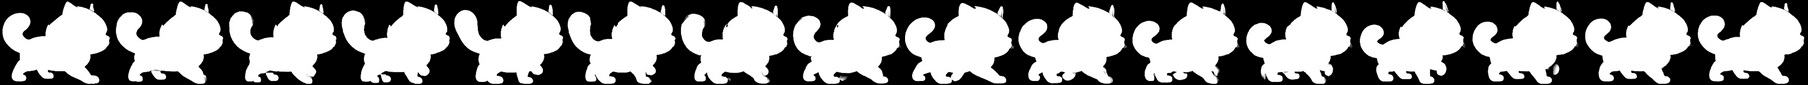
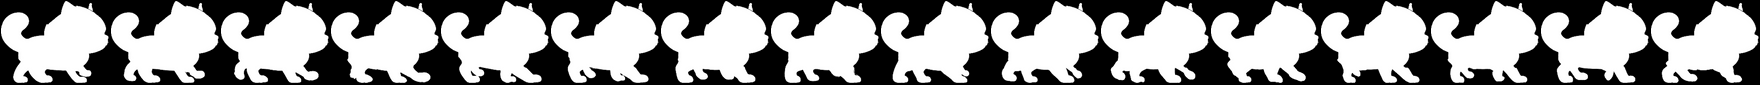
Public 0.5.15-P: GitHub star and affiliate links on the support page, new walking cat
- Support page (user: buttons that do not feel pushy, details in a box):
  GitHub star row in every language (free support first); on the Korean
  screen only, a "when you shop" card with Coupang and MyRealTrip
  [Details]. Each opens a box with the required economic-interest
  disclosure as a highlighted line (Coupang's exact wording, MyRealTrip's
  definite "commission is paid" wording), where it goes and that 1Key
  collects nothing; the link opens only from [Open in browser]. Links are
  fixed allowlist constants. Korean intro no longer says "no ads".
- Dialog: OK/Cancel boxes use the given OK text; warning/tip lines indent
  by the mark's width (the mark's cell covered the first letter).
- Walk: new 16-frame cycle - 8 key poses with all four legs stepping in
  order and planted paws on the ground line, 5 RIFE in-betweens and 3
  drawn in-betweens where a leg passes in front of another. Walk speed
  matched to the new stride (strip px per frame 3.6 -> 2.95) so the
  planted paws do not slide.
- Tests: support 13/13 (SP09-SP13 new), dialog 16/16, help 22/22,
  catwalk 8/8, catseq 8/8.

diff --git a/src/OneKey/Strings.g.cs b/src/OneKey/Strings.g.cs
@@ -1,12 +1,12 @@
 // <auto-generated/>
 // Generated by tools/i18n/gen-strings.ps1 from src/OneKey/i18n/strings.tsv. Do not edit; edit the TSV.
-// 605 texts; 0 missing translations fall back to en.
+// 616 texts; 21 missing translations fall back to en.
 #nullable enable
 namespace OneKey;
 
 internal static partial class T
 {
-    public const int Count = 605;
+    public const int Count = 616;
     internal static readonly string[] Ko =
     {
         "확인",
@@ -607,13 +607,24 @@ internal static partial class T
         "이 백업에는 프로그램·폴더 목록이 없습니다(만들 때 목록을 읽지 못함).\n지금 목록을 그대로 둘까요?\n\n[예] 지금 목록 그대로    [아니요] 목록을 비움    [취소] 복원 그만두기",
         "후원하기",
         "1Key가 도움이 됐다면",
-        "1Key는 무료이고, 광고도 추적도 없어요. 커피 한 잔으로 응원해 주시면 계속 다듬는 힘이 돼요. 후원하지 않아도 모든 기능은 그대로예요.",
+        "1Key는 무료이고, 사용자를 추적하지 않아요. 커피 한 잔으로 응원해 주시면 계속 다듬는 힘이 돼요. 후원하지 않아도 모든 기능은 그대로예요.",
         "휴대폰으로 후원",
         "휴대폰 카메라로 찍으면 송금 화면이 바로 열려요. 금액만 넣으면 끝.",
         "카카오페이",
         "카카오페이로 열려요",
         "브라우저에서 열기",
         "카카오페이 송금 페이지",
+        "GitHub에서 별 주기",
+        "돈 들지 않는 응원 — GitHub 계정으로 ★를 눌러 주세요",
+        "필요한 걸 사실 때",
+        "아래 링크로 사시면 가격은 같고, 개발자에게 수수료가 지급돼요.",
+        "쿠팡",
+        "평소 쇼핑",
+        "마이리얼트립",
+        "항공·숙소·투어 예약",
+        "자세히",
+        "## 쿠팡에서 쇼핑하기\n평소처럼 쇼핑하시면 돼요. 가격은 같아요.\n> 이 포스팅은 쿠팡 파트너스 활동의 일환으로, 이에 따른 일정액의 수수료를 제공받습니다.\n• 가는 곳: link.coupang.com → 쿠팡 (기본 브라우저)\n• 1Key는 아무 정보도 모으지 않아요. 제휴 기록은 쿠팡이 브라우저에서 남겨요.",
+        "## 마이리얼트립에서 예약하기\n평소처럼 예약하시면 돼요. 가격은 같아요.\n> 마이리얼트립과 함께하는 마케팅 파트너십을 통해 여행자가 구매할 때마다 일정 비율의 수수료를 지급받습니다.\n• 가는 곳: myrealt.rip(마이리얼트립 단축 주소) → 마이리얼트립 (기본 브라우저)\n• 1Key는 아무 정보도 모으지 않아요. 제휴 기록은 마이리얼트립이 브라우저에서 남겨요.",
     };
     internal static readonly string[] En =
     {
@@ -1222,6 +1233,17 @@ internal static partial class T
         "Opens in KakaoPay",
         "Open in browser",
         "KakaoPay payment page",
+        "Star 1Key on GitHub",
+        "Free support — click ★ with your GitHub account",
+        "When you shop",
+        "Buy through the links below: the price is the same and the developer is paid a commission.",
+        "Coupang",
+        "Everyday shopping",
+        "MyRealTrip",
+        "Flights, stays and tours",
+        "Details",
+        "## Shop on Coupang\nShop as usual; the price is the same.\n> This is part of the Coupang Partners program, and the developer receives a fixed commission for it.\n• Goes to: link.coupang.com → Coupang (default browser)\n• 1Key collects nothing. Coupang records the referral in your browser.",
+        "## Book on MyRealTrip\nBook as usual; the price is the same.\n> Through a marketing partnership with MyRealTrip, the developer is paid a set percentage commission on every purchase.\n• Goes to: myrealt.rip (MyRealTrip short link) → MyRealTrip (default browser)\n• 1Key collects nothing. MyRealTrip records the referral in your browser.",
     };
     internal static readonly string[] ZhHans =
     {
@@ -1830,6 +1852,17 @@ internal static partial class T
         "在 KakaoPay 中打开",
         "在浏览器中打开",
         "KakaoPay 转账页面",
+        "在 GitHub 上点星",
+        "免费的支持 — 用 GitHub 账号点 ★",
+        "购物时",
+        "Buy through the links below: the price is the same and the developer is paid a commission.",
+        "Coupang",
+        "Everyday shopping",
+        "MyRealTrip",
+        "Flights, stays and tours",
+        "详情",
+        "## Shop on Coupang\nShop as usual; the price is the same.\n> This is part of the Coupang Partners program, and the developer receives a fixed commission for it.\n• Goes to: link.coupang.com → Coupang (default browser)\n• 1Key collects nothing. Coupang records the referral in your browser.",
+        "## Book on MyRealTrip\nBook as usual; the price is the same.\n> Through a marketing partnership with MyRealTrip, the developer is paid a set percentage commission on every purchase.\n• Goes to: myrealt.rip (MyRealTrip short link) → MyRealTrip (default browser)\n• 1Key collects nothing. MyRealTrip records the referral in your browser.",
     };
     internal static readonly string[] Ja =
     {
@@ -2438,6 +2471,17 @@ internal static partial class T
         "カカオペイで開きます",
         "ブラウザで開く",
         "カカオペイ送金ページ",
+        "GitHubでスターを付ける",
+        "無料の応援 — GitHubアカウントで★を押してください",
+        "お買い物のときに",
+        "Buy through the links below: the price is the same and the developer is paid a commission.",
+        "Coupang",
+        "Everyday shopping",
+        "MyRealTrip",
+        "Flights, stays and tours",
+        "詳しく",
+        "## Shop on Coupang\nShop as usual; the price is the same.\n> This is part of the Coupang Partners program, and the developer receives a fixed commission for it.\n• Goes to: link.coupang.com → Coupang (default browser)\n• 1Key collects nothing. Coupang records the referral in your browser.",
+        "## Book on MyRealTrip\nBook as usual; the price is the same.\n> Through a marketing partnership with MyRealTrip, the developer is paid a set percentage commission on every purchase.\n• Goes to: myrealt.rip (MyRealTrip short link) → MyRealTrip (default browser)\n• 1Key collects nothing. MyRealTrip records the referral in your browser.",
     };
     internal static readonly string[] Vi =
     {
@@ -3046,6 +3090,17 @@ internal static partial class T
         "Mở bằng KakaoPay",
         "Mở trong trình duyệt",
         "Trang chuyển tiền KakaoPay",
+        "Gắn sao cho 1Key trên GitHub",
+        "Ủng hộ miễn phí — bấm ★ bằng tài khoản GitHub",
+        "Khi bạn mua sắm",
+        "Buy through the links below: the price is the same and the developer is paid a commission.",
+        "Coupang",
+        "Everyday shopping",
+        "MyRealTrip",
+        "Flights, stays and tours",
+        "Chi tiết",
+        "## Shop on Coupang\nShop as usual; the price is the same.\n> This is part of the Coupang Partners program, and the developer receives a fixed commission for it.\n• Goes to: link.coupang.com → Coupang (default browser)\n• 1Key collects nothing. Coupang records the referral in your browser.",
+        "## Book on MyRealTrip\nBook as usual; the price is the same.\n> Through a marketing partnership with MyRealTrip, the developer is paid a set percentage commission on every purchase.\n• Goes to: myrealt.rip (MyRealTrip short link) → MyRealTrip (default browser)\n• 1Key collects nothing. MyRealTrip records the referral in your browser.",
     };
 
     /// <summary>common.ok</summary>
@@ -4258,4 +4313,26 @@ internal static partial class T
     public static string SupportBrowser => L.Get(603);
     /// <summary>support.browserNote</summary>
     public static string SupportBrowserNote => L.Get(604);
+    /// <summary>support.github</summary>
+    public static string SupportGithub => L.Get(605);
+    /// <summary>support.githubNote</summary>
+    public static string SupportGithubNote => L.Get(606);
+    /// <summary>support.shop</summary>
+    public static string SupportShop => L.Get(607);
+    /// <summary>support.shopNote</summary>
+    public static string SupportShopNote => L.Get(608);
+    /// <summary>support.coupang</summary>
+    public static string SupportCoupang => L.Get(609);
+    /// <summary>support.coupangNote</summary>
+    public static string SupportCoupangNote => L.Get(610);
+    /// <summary>support.mrt</summary>
+    public static string SupportMrt => L.Get(611);
+    /// <summary>support.mrtNote</summary>
+    public static string SupportMrtNote => L.Get(612);
+    /// <summary>support.btnMore</summary>
+    public static string SupportBtnMore => L.Get(613);
+    /// <summary>support.coupangBody</summary>
+    public static string SupportCoupangBody => L.Get(614);
+    /// <summary>support.mrtBody</summary>
+    public static string SupportMrtBody => L.Get(615);
 }

diff --git a/src/OneKey/AppSupport.cs b/src/OneKey/AppSupport.cs
@@ -5,14 +5,18 @@ namespace OneKey;
 /// <summary>
 /// 후원 화면(2026-10-09 사용자: 사용성을 해치지 않고 거부감 없는 자리에). 설정 맨 아래 [후원하기 · 열기]에서만 들어온다 — 목록 머리줄·트레이 메뉴에
 /// 단추를 두지 않고, 저절로 뜨거나 다시 알리지 않는다. 화면을 그리는 데 네트워크를 쓰지 않는다(QR 은 빌드에 든 그림).
-/// 위에서부터: ① 고양이 + "1Key가 도움이 됐다면" + 한 문단 ② 휴대폰으로 후원 — 카카오페이 QR(흰 판, 어두운 테마에서도 흰 바탕),
-/// 브라우저에서 열기 [열기] ③ 아래 [닫기]. 열 수 있는 주소는 SupportLinks.Allowed 뿐(이어 붙인 주소 없음), 여는 길은 바로 실행의 웹 주소와 같다
+/// 위에서부터: ① 고양이 + "1Key가 도움이 됐다면" + 한 문단 ② GitHub 에서 별 주기 [열기](모든 언어 — 돈이 들지 않는 응원을 먼저)
+/// ③ 휴대폰으로 후원 — 카카오페이 QR(흰 판, 어두운 테마에서도 흰 바탕), 브라우저에서 열기 [열기]
+/// ④ 필요한 걸 사실 때(한국어 화면만 — 한국 서비스) 쿠팡·마이리얼트립 [자세히] → 확인 상자(경제적 이해관계 문구를 강조 줄로, 가는 곳,
+/// 1Key 는 아무것도 모으지 않음) [브라우저에서 열기]/[취소] ⑤ 아래 [닫기]. 제휴 링크는 상자를 거치지 않고는 열리지 않는다(문구를 먼저 보게).
+/// 열 수 있는 주소는 SupportLinks.Allowed 뿐(이어 붙인 주소 없음), 여는 길은 바로 실행의 웹 주소와 같다
 /// (기본 브라우저, Launcher — 관리자 권한 1Key 에서도 보통 권한으로). 시험 모드는 실제로 열지 않고 config 폴더 support-open.txt 에 적는다.
 /// Esc·‹·[닫기] = 설정으로.
 /// </summary>
 internal sealed unsafe partial class App
 {
     private const int IdSupBack = 2501, IdSupOpen = 2502, IdSupClose = 2503, IdRowSupport = 2504;
+    private const int IdSupCoupang = 2505, IdSupMyRealTrip = 2506, IdSupGitHub = 2507;
     private const int SupQrTile = 184;   // QR 흰 판(논리 px). 모듈은 늘 정수 픽셀(DPI 마다 다시 잼)
 
     private static bool[]? _qrMods;
@@ -41,7 +45,24 @@ internal sealed unsafe partial class App
         _page.Pic = (lx, top + (y - top - PicH) / 2, PicH);
         _page.Cards.Add((Mx, top, Mw, y - top));
 
-        // ② 휴대폰으로 후원
+        // 한 줄: 제목·설명 + 오른쪽 둥근 단추. 읽기 프로그램 이름 = "제목 — 설명"(무엇을 여는지 말한다)
+        int PillRow(int id, string title, string sub, string btn, int at)
+        {
+            int ow = LabelW(Theme.Sized(12, true), btn) + 28, textW = rx - lx - ow - 12;
+            Label(title, lx, at + 8, textW, 20, Theme.Sized(13.5, true), ink, true, Native.SS_LEFT | Native.SS_ENDELLIPSIS);
+            Label(sub, lx, at + 28, textW, 18, Theme.Sized(11.5, false), note, true, Native.SS_LEFT | Native.SS_ENDELLIPSIS);
+            nint b = SmallPill(id, btn, rx - ow, at + 6, ow);
+            if (b != 0) { CtlAcc.SetName(b, title + " — " + sub); Tip(b, sub); }
+            return at + MetalUi.SetRowH + 12;
+        }
+
+        // ② GitHub 에서 별 주기(모든 언어)
+        y += MetalUi.TileGap + 4;
+        top = y;
+        y = PillRow(IdSupGitHub, T.SupportGithub, T.SupportGithubNote, T.SetBtnOpen, y + 4) + 4;
+        _page.Cards.Add((Mx, top, Mw, y - top));
+
+        // ③ 휴대폰으로 후원
         y += MetalUi.TileGap + 4;
         top = y;
         y += 14;
@@ -60,14 +81,28 @@ internal sealed unsafe partial class App
         _page.Separators.Add((lx, y, rx - lx));
         y += 1;
         // 브라우저에서 열기 — 카카오페이 송금 페이지  [열기]
-        int ow = LabelW(Theme.Sized(12, true), T.SetBtnOpen) + 28;
-        int rowH = MetalUi.SetRowH + 12, textW = rx - lx - ow - 12;
-        Label(T.SupportBrowser, lx, y + 8, textW, 20, Theme.Sized(13.5, true), ink, true, Native.SS_LEFT | Native.SS_ENDELLIPSIS);
-        Label(T.SupportBrowserNote, lx, y + 28, textW, 18, Theme.Sized(11.5, false), note, true, Native.SS_LEFT | Native.SS_ENDELLIPSIS);
-        nint open = SmallPill(IdSupOpen, T.SetBtnOpen, rx - ow, y + 6, ow);
-        if (open != 0) { CtlAcc.SetName(open, T.SupportBrowser + " — " + T.SupportBrowserNote); Tip(open, T.SupportBrowserNote); }
-        y += rowH;
+        y = PillRow(IdSupOpen, T.SupportBrowser, T.SupportBrowserNote, T.SetBtnOpen, y);
         _page.Cards.Add((Mx, top, Mw, y - top));
+
+        // ④ 필요한 걸 사실 때(한국어 화면만): 제휴 링크 — [자세히]는 문구 상자를 먼저 띄운다
+        if (L.Current == Lang.Ko)
+        {
+            y += MetalUi.TileGap + 4;
+            top = y;
+            y += 14;
+            Label(T.SupportShop, lx, y, rx - lx, 22, Theme.Sized(13.5, true), ink, true, Native.SS_LEFT | Native.SS_ENDELLIPSIS);
+            y += 24;
+            int sh = TextH(Theme.Sized(12, false), T.SupportShopNote, rx - lx) + 2;
+            Label(T.SupportShopNote, lx, y, rx - lx, sh, Theme.Sized(12, false), note, true, Native.SS_LEFT, vcenter: false);
+            y += sh + 8;
+            _page.Separators.Add((lx, y, rx - lx));
+            y += 1;
+            y = PillRow(IdSupCoupang, T.SupportCoupang, T.SupportCoupangNote, T.SupportBtnMore, y);
+            _page.Separators.Add((lx, y, rx - lx));
+            y += 1;
+            y = PillRow(IdSupMyRealTrip, T.SupportMrt, T.SupportMrtNote, T.SupportBtnMore, y);
+            _page.Cards.Add((Mx, top, Mw, y - top));
+        }
 
         MetalDial(metalTop, ref y);
         _page.BarTop = y;
@@ -89,9 +124,21 @@ internal sealed unsafe partial class App
             Native.SetPropW(_hwnd, "OneKeyTestSupportOpen", ++_testSupportOpen);
             return;
         }
-        var it = new LaunchItem { Id = "support", Kind = "url", Name = T.SupportKakao, Target = url, Browser = "default", Valid = true };
+        string name = which switch { SupportLinks.IxCoupang => T.SupportCoupang, SupportLinks.IxMyRealTrip => T.SupportMrt, SupportLinks.IxGitHub => "GitHub", _ => T.SupportKakao };
+        var it = new LaunchItem { Id = "support", Kind = "url", Name = name, Target = url, Browser = "default", Valid = true };
         if (Launcher.Unconsumed is int done and not 0) OnLaunchDone(done);
         if (Launcher.Start(it, 0, false, "", _hwnd, WM_LAUNCH_DONE) is null) LaunchToast(Launcher.Result.Busy, it.Name);
+    }
+
+    /// <summary>
+    /// 제휴 링크 [자세히]: 경제적 이해관계 문구(공정위 추천·보증 심사지침 — 쿠팡은 지정 문구 그대로, 마이리얼트립은 "수수료 지급"이 든 확정 표현)를
+    /// 강조 줄로 먼저 보이고, [브라우저에서 열기]를 눌렀을 때만 연다. 한국어 화면에서만(그 밖의 언어에는 단추가 없다).
+    /// </summary>
+    private void ShowAffiliate(int which)
+    {
+        if (_cur != Screen.Support || L.Current != Lang.Ko) return;
+        string body = which == SupportLinks.IxCoupang ? T.SupportCoupangBody : T.SupportMrtBody;
+        if (Dialog.Show(_hwnd, body, T.SupportTitle, Native.MB_OKCANCEL, okText: T.SupportBrowser) == 1) OpenSupportLink(which);
     }
 
     private int _testSupportOpen;

diff --git a/src/OneKey/Dialog.cs b/src/OneKey/Dialog.cs
@@ -39,6 +39,9 @@ internal static unsafe class Dialog
     /// </summary>
     public const string WarnMark = "! ", TipMark = "> ", ArtMark = "@";
     private const int BulletIndent = 14;
+    /// <summary>주의·도움말 줄은 기호(아이콘 글꼴, 약 16px)가 글머리보다 넓다: 그만큼 더 들여 쓴다. 기호 칸과 글 칸이 겹치면
+    /// 기호 칸 바탕이 첫 글자를 덮는다(0.5.15-O: 제휴 상자의 "이 포스팅은"이 "기 포스팅은"처럼 보였다).</summary>
+    private const int MarkExtra = 6;
 
     private static nint Child(nint parent, string cls, string text, uint style, uint ex, int x, int y, int w, int h, int id, nint font)
     {
@@ -96,8 +99,9 @@ internal static unsafe class Dialog
             int x = S(Pad), cw = st.W - 2 * S(Pad);
             if (b.Bullet != 0)
             {
-                Native.SetWindowPos(b.Bullet, 0, x, top, st.Indent, Math.Min(b.H, S(20)), 0x0004 | 0x0010 | (show ? 0x0040u : 0x0080u));   // NOZORDER|NOACTIVATE|SHOW/HIDE
-                x += st.Indent; cw -= st.Indent;
+                int bi = b.Kind is 3 or 4 ? st.Indent + S(MarkExtra) : st.Indent;   // 주의·도움말 기호는 더 넓다
+                Native.SetWindowPos(b.Bullet, 0, x, top, bi, Math.Min(b.H, S(20)), 0x0004 | 0x0010 | (show ? 0x0040u : 0x0080u));   // NOZORDER|NOACTIVATE|SHOW/HIDE
+                x += bi; cw -= bi;
             }
             Native.SetWindowPos(b.Ctl, 0, x, top, cw, b.H, 0x0004 | 0x0010 | (show ? 0x0040u : 0x0080u));
             if (b.Kind == 1 && b.Section >= 0)
@@ -228,7 +232,7 @@ internal static unsafe class Dialog
             {
                 var b = blocks[i];
                 bool ind = b.Kind is KBullet or KWarn or KTip;
-                int hh = b.Kind == KArt ? S(HelpArt.Height) : Measure(b.Text, b.Kind == KHead ? Theme.FontStrong : Theme.FontBody, ind ? indent : 0);
+                int hh = b.Kind == KArt ? S(HelpArt.Height) : Measure(b.Text, b.Kind == KHead ? Theme.FontStrong : Theme.FontBody, !ind ? 0 : b.Kind is KWarn or KTip ? indent + S(MarkExtra) : indent);
                 if (foldable && b.Kind == KHead) hh = Math.Max(hh, S(HeadH));   // 접는 제목은 누르는 버튼이라 조금 높게
                 blocks[i] = (b.Text, b.Kind, hh);
                 if (foldable && b.Kind != KHead && sectionOf[i] > 0) continue;   // 처음에는 첫 섹션만 펼침
@@ -324,8 +328,9 @@ internal static unsafe class Dialog
                     else if (b.Kind is KWarn or KTip)
                     {
                         // 주의·도움말: 기호 자리에 경고·전구 표시(아이콘 글꼴), 본문은 그 색으로
-                        bullet = HelpArt.Create(hwnd, b.Kind == KWarn ? "mark:warn" : "mark:tip", bx0, by0, indent + S(4), Math.Min(b.H, S(20)));
-                        bx0 += indent; bw -= indent;
+                        int markW = indent + S(MarkExtra);
+                        bullet = HelpArt.Create(hwnd, b.Kind == KWarn ? "mark:warn" : "mark:tip", bx0, by0, markW, Math.Min(b.H, S(20)));
+                        bx0 += markW; bw -= markW;
                     }
                     if (b.Kind == KArt)
                     {
@@ -365,7 +370,7 @@ internal static unsafe class Dialog
             {
                 Native.MB_YESNO => new[] { (IDYES, T.CommonYes), (IDNO, T.CommonNo) },
                 Native.MB_YESNOCANCEL => new[] { (IDYES, T.CommonYes), (IDNO, T.CommonNo), (IDCANCEL, T.CommonCancel) },   // Esc·× = 취소(아니요가 아님)
-                Native.MB_OKCANCEL => new[] { (IDOK, T.CommonOk), (IDCANCEL, T.CommonCancel) },
+                Native.MB_OKCANCEL => new[] { (IDOK, okText), (IDCANCEL, T.CommonCancel) },   // okText: 예) 제휴 상자의 [브라우저에서 열기]
                 _ => extraText is null ? new[] { (IDOK, okText) } : new[] { (IDEXTRA, extraText), (IDOK, okText) },
             };
             int defIndex = (flags & Native.MB_DEFBUTTON2) != 0 && buttons.Length > 1 ? 1 : 0;
@@ -373,6 +378,7 @@ internal static unsafe class Dialog
             st.DefaultId = buttons[defIndex].Id;
             int by = h - S(Pad) - S(BtnH);
             int bx = w - S(Pad) - S(BtnW);
+            bool wideOk = (flags & 0xF) == Native.MB_OKCANCEL && okText != T.CommonOk;
             nint defHwnd = 0;
             for (int i = buttons.Length - 1; i >= 0; i--)
             {
@@ -380,7 +386,7 @@ internal static unsafe class Dialog
                 nint b;
                 fixed (char* bc = Btn.ClassName) fixed (char* bt = buttons[i].Text)
                 {
-                    int bw = buttons[i].Id == IDEXTRA ? S(BtnW + 40) : S(BtnW);   // 추가 버튼 글("라이선스 보기")은 더 길다
+                    int bw = buttons[i].Id == IDEXTRA ? S(BtnW + 40) : buttons[i].Id == IDOK && wideOk ? S(BtnW + 60) : S(BtnW);   // 추가 버튼 글("라이선스 보기")·확인/취소 상자의 바꾼 확인 글("브라우저에서 열기")은 더 길다
                     b = Native.CreateWindowExW(0, bc, bt, kind, bx + S(BtnW) - bw, by, bw, S(BtnH), hwnd, buttons[i].Id, Native.GetModuleHandleW(null), 0);
                     bx -= bw - S(BtnW);
                 }

diff --git a/src/OneKey/SupportLinks.cs b/src/OneKey/SupportLinks.cs
@@ -5,11 +5,18 @@ namespace OneKey;
 /// 받는 사람이 정한 공개 송금 링크라 비밀 값이 아니다(키·토큰·계좌 번호가 들어 있지 않다). QR 그림(Assets/support)은
 /// tools/support/make_qr.py 가 이 상수를 읽어 만든다 — 바꾸면 그 스크립트를 다시 돌린다.
 /// 토스 송금 QR(계좌 번호가 들어 있음)은 넣지 않았다(2026-10-09 사용자: 보안 문제가 있으면 빼기).
+/// 제휴 링크(2026-10-09 사용자: 쿠팡 파트너스·마이리얼트립, 계정 공유형 구독 서비스는 뺌)는 공개용 추천 링크라 비밀 값이 아니다.
+/// 한국어 화면에서만 보이고, 누르면 경제적 이해관계 문구가 든 상자를 먼저 띄운 뒤 [브라우저에서 열기]로만 연다.
 /// </summary>
 internal static class SupportLinks
 {
     public const string KakaoPay = "https://qr.kakaopay.com/removed";
+    public const string Coupang = "https://link.coupang.com/a/hGU2tjGpu8";
+    public const string MyRealTrip = "https://myrealt.rip/uhS543";
+    public const string GitHub = "https://github.com/devowlscorp/1key-public";
 
-    /// <summary>허용 목록: 0 = 카카오페이 송금 페이지.</summary>
-    public static readonly string[] Allowed = { KakaoPay };
+    public const int IxKakaoPay = 0, IxCoupang = 1, IxMyRealTrip = 2, IxGitHub = 3;
+
+    /// <summary>허용 목록: 0 = 카카오페이 송금 페이지, 1 = 쿠팡(제휴), 2 = 마이리얼트립(제휴), 3 = GitHub 저장소(별 주기).</summary>
+    public static readonly string[] Allowed = { KakaoPay, Coupang, MyRealTrip, GitHub };
 }

diff --git a/src/OneKey/CatClips.cs b/src/OneKey/CatClips.cs
@@ -28,8 +28,9 @@ internal static unsafe partial class CatWidget
     internal static readonly bool WalkTest = Program.IsTestMode && !SeqTest && Environment.GetEnvironmentVariable("ONEKEY_TEST_CAT_WALK") == "1";
     private const int ClipTickMs = 62, BlendFrames = 3, SeqGapMs = 600;
     private const uint WM_ANIMTICK = 0x8032, WM_CLIPREADY = 0x8033;
-    /// <summary>걷기 빠르기: 그림 띠 px(앉은 키 80 기준)로 한 장에 이만큼. 앞발이 땅을 미는 빠르기(약 4.5)와 거의 움직이지 않는 뒷발 사이.</summary>
-    private const double WalkStripPx = 3.6;
+    /// <summary>걷기 빠르기: 그림 띠 px(앉은 키 80 기준)로 한 장에 이만큼 = 딛고 있는 발이 한 장에 뒤로 가는 거리(발이 미끄러지지 않게).
+    /// 0.5.15-O 새 걸음(핵심 8장 + 사이 8장, 네 발이 차례로 딛는 걸음): 원본 1024 기준 장마다 25px → 띠 약 2.95px(잇기 그림에서 실측 11.6~12.0 × 0.25).</summary>
+    private const double WalkStripPx = 2.95;
     private const int WalkCycle = 16;
 
     private static ClipInfo[]? _clips;

diff --git a/src/OneKey/AppWndProc.cs b/src/OneKey/AppWndProc.cs
@@ -642,7 +642,10 @@ internal sealed unsafe partial class App
             case IdRowAdvanced: ShowScreen(Screen.Advanced); return;
             case IdRowSupport: ShowScreen(Screen.Support); return;
             case IdSupBack: case IdSupClose: ShowScreen(Screen.Settings); return;
-            case IdSupOpen: OpenSupportLink(0); return;
+            case IdSupOpen: OpenSupportLink(SupportLinks.IxKakaoPay); return;
+            case IdSupGitHub: OpenSupportLink(SupportLinks.IxGitHub); return;
+            case IdSupCoupang: ShowAffiliate(SupportLinks.IxCoupang); return;
+            case IdSupMyRealTrip: ShowAffiliate(SupportLinks.IxMyRealTrip); return;
             case IdSave: SaveList(); return;
 
             // 편집

diff --git a/src/OneKey/App.cs b/src/OneKey/App.cs
@@ -14,7 +14,7 @@ internal sealed unsafe partial class App
 
     private static readonly string ClassName = Program.WindowClass;
     private const string AppTitle = "1Key";
-    public const string Version = "0.5.15-N";
+    public const string Version = "0.5.15-P";
 
     /// <summary>버전을 크기 비교가 가능한 정수로. "0.2.0" → 0x000200.</summary>
     public static int VersionCode
